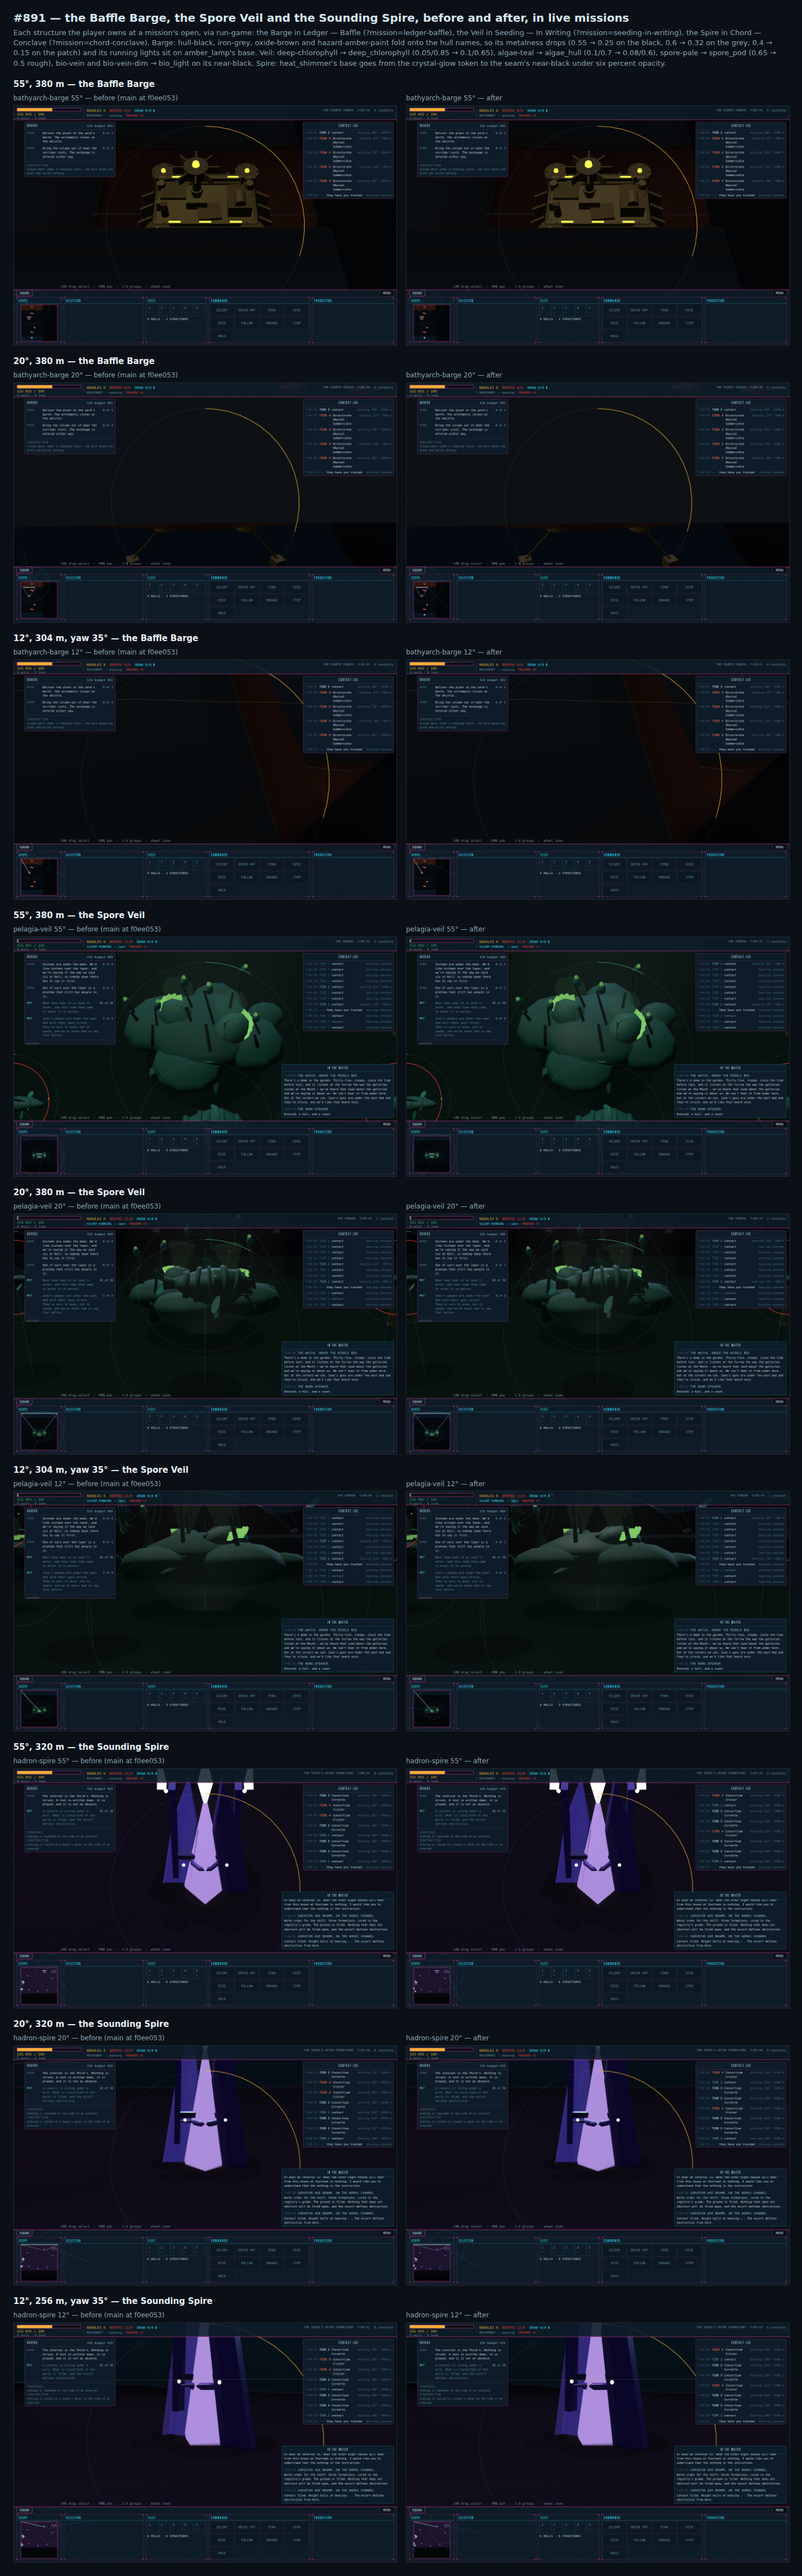
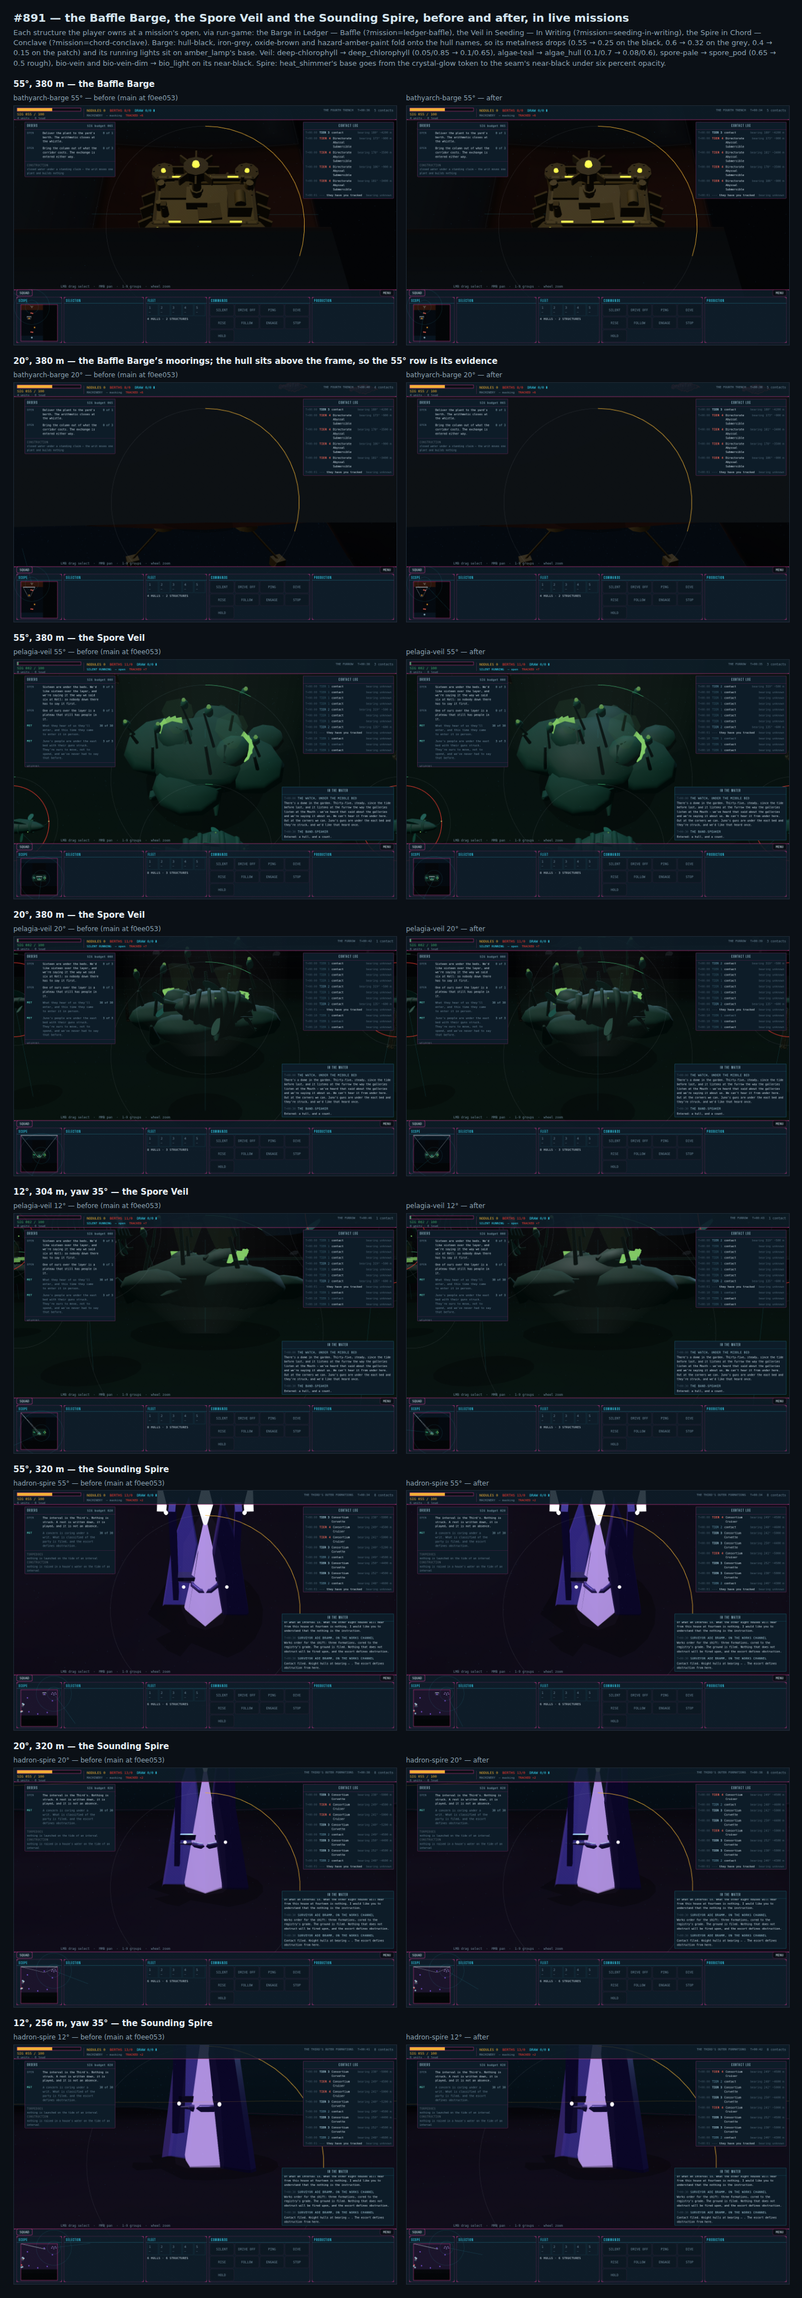
fix(docs): the critic's third verdict — a diffuse-only ratio, a docstring, an empty row (#891)
Block 2b claimed the Consortium Submersible's grey renders ×1.70 brighter; that is (1 − metalness) alone, and the Barge carrying the same move reads about 5% lighter at 55°. diff.mjs's docstring said strength is left out of the comparison; it is left out of the split check and compared as a set. The structures sheet's 12° Barge row framed no Barge.

Claude-Session: https://claude.ai/code/session_01VmJU3T79ecK1e7KSiZtFCA

diff --git a/docs/asset-prompts-3d.md b/docs/asset-prompts-3d.md
@@ -275,9 +275,11 @@ and a name is the family's where the value is:
   Refinery's `amber_lamp` at 2.4 and 1.1, the Veil's `bio_light` at 2.2 and 0.9 and the
   Commune Cruiser's at 1.6 and 1.5: one fixture at two loudnesses, which every consumer groups by material rather than by name
   (`recolor`, `mergeByMaterial`, `check.mjs`), and which `parts.mjs` cannot tell apart.
-  The Submersibles' and the Barge's heavier finishes went with their names, so the conn
-  view shows the Consortium Submersible's grey ×1.70 brighter and its black ×1.67, from
-  metalness alone.
+  The Submersibles' and the Barge's heavier finishes went with their names: the Consortium
+  Submersible's grey keeps 0.68 of its colour as diffuse where it kept 0.40, its black 0.75
+  where it kept 0.45, and the specular a lower metalness loses gives most of that back — the
+  Barge, carrying the same move, reads about five percent lighter in the conn view
+  (`891-structures-before-after.png`, the 55° row).
 - **The hyphenated names folded.** The Submersibles', the Baffle Barge's and the Spore
   Veil's r184 names went onto the names that share their hex, at the hulls' value or the
   structures' where the structures have a name of their own —
